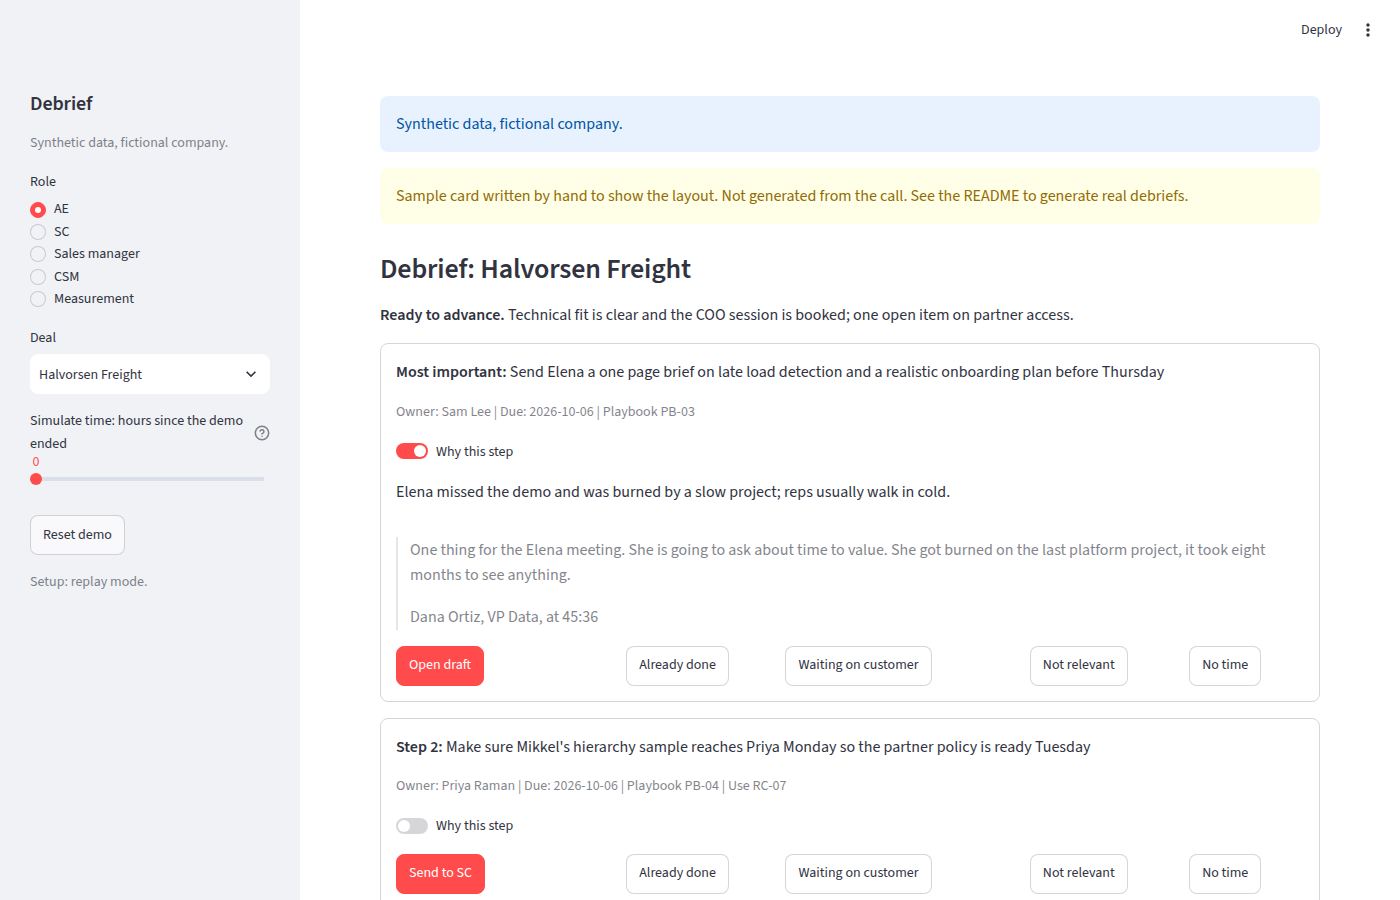
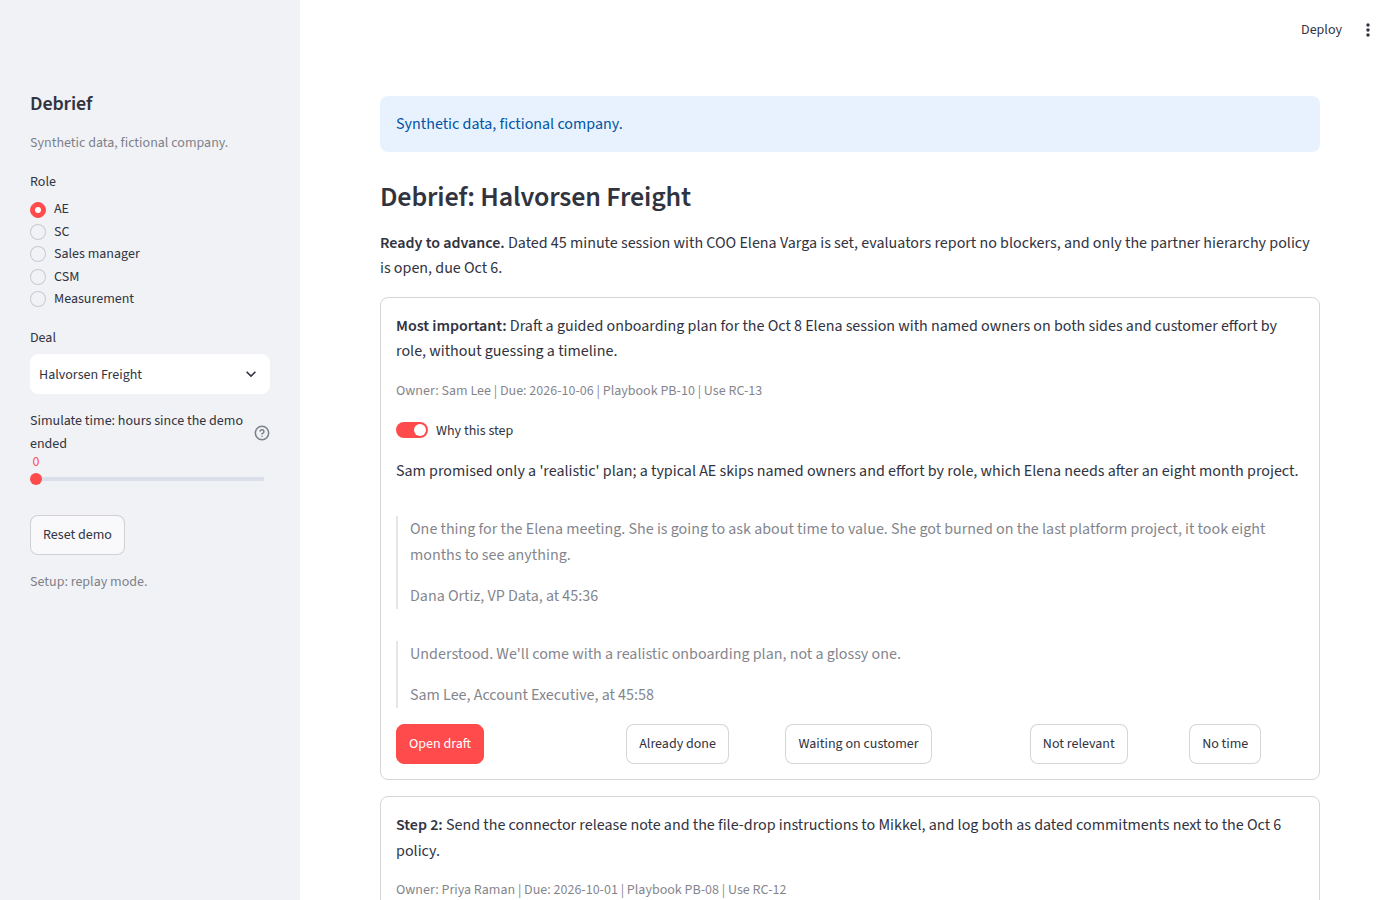
Capture screenshots from real recorded debriefs and refresh the Slack card asset
Screens taken with DEBRIEF_SAMPLES=0 from the replay cache; the sample banner is gone and
quotes come from the utterance table.

Claude-Session: https://claude.ai/code/session_01HiS8AMydsBYqZJERGQByck

diff --git a/evals/results.md b/evals/results.md
@@ -3,7 +3,7 @@
 Synthetic data, fictional company. Generated by `evals/run_evals.py`; do not edit by hand except the "What changed" column of the failures table.
 
 - Mode: replay. Runs per deal: 1. Model: claude-sonnet-5-5.
-- Generated: 2026-10-03 18:32 UTC.
+- Generated: 2026-10-03 18:36 UTC.
 - Judge: uncalibrated (see `python evals/judges.py status`).
 
 ## Summary (first run per deal)
